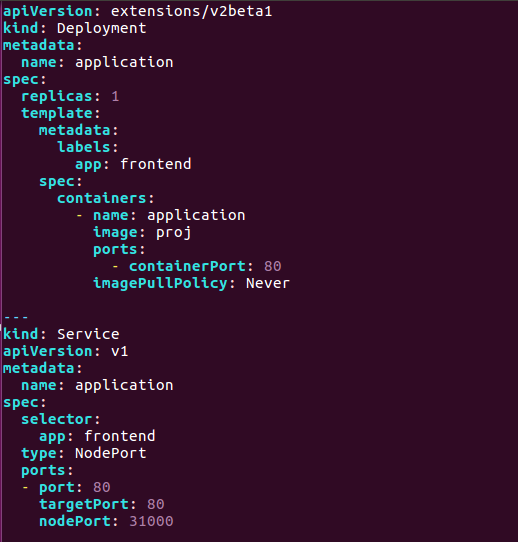
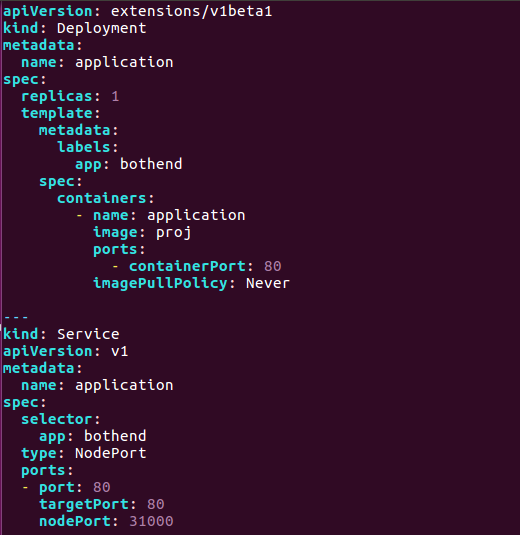
Compined Homework Repos

Changed region(s): [[0.0, 0.0, 0.556, 0.5383], [0.0, 0.5682, 0.3398, 0.9869]]

diff --git a/Homework4/Task3/Task3.md b/Homework4/Task3/Task3.md
@@ -15,6 +15,29 @@ Note: In this part, we packed both frontend and backend into a mirror image for 
 The key step for this task is to config the deployment.yaml.
 Since we use local mirror image to deploy, we have to modify the deployment.yaml as following:  
 ![Img](pics/yaml.jpg)
+### Some notification:
+1. We have to set the port and targetPort to 80, so that other machines can visit with default port. Also, we have to set nodePort to 31000 to config the port of Kubernetes pods.  
+2. Since we use local image, we have to set imagePullPolicy to never to avoid errors such as failure to pull images.  
+3. We have to set our image to proj which is build on docker on our machine.  
+### Deploy and test
+Type:  
+```
+kubectl create -f deployment.yaml
+```
+And we can see our deployment by typing:  
+```
+kubectl get deployment
+```
+And we can see the running condition of our application by typing:  
+```
+kubectl get pod
+```
+and
+```
+kubectl get svc
+```
+(Detailed information can be seen from the video in this folder)
+
 ## Visit our web application
-By visiting localhost:
+By visiting localhost:31000 in web browser, we can visit our own web application which is deployed on Kubernetes.
 ## For more details, see the video in this folder.
